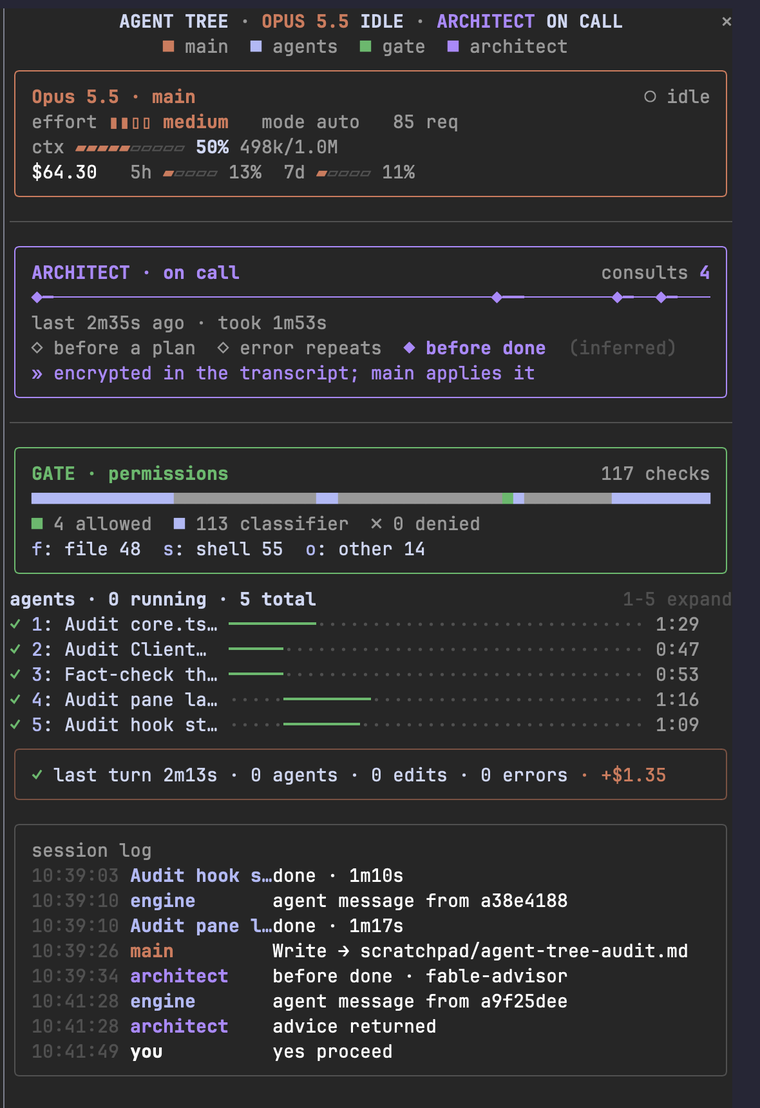
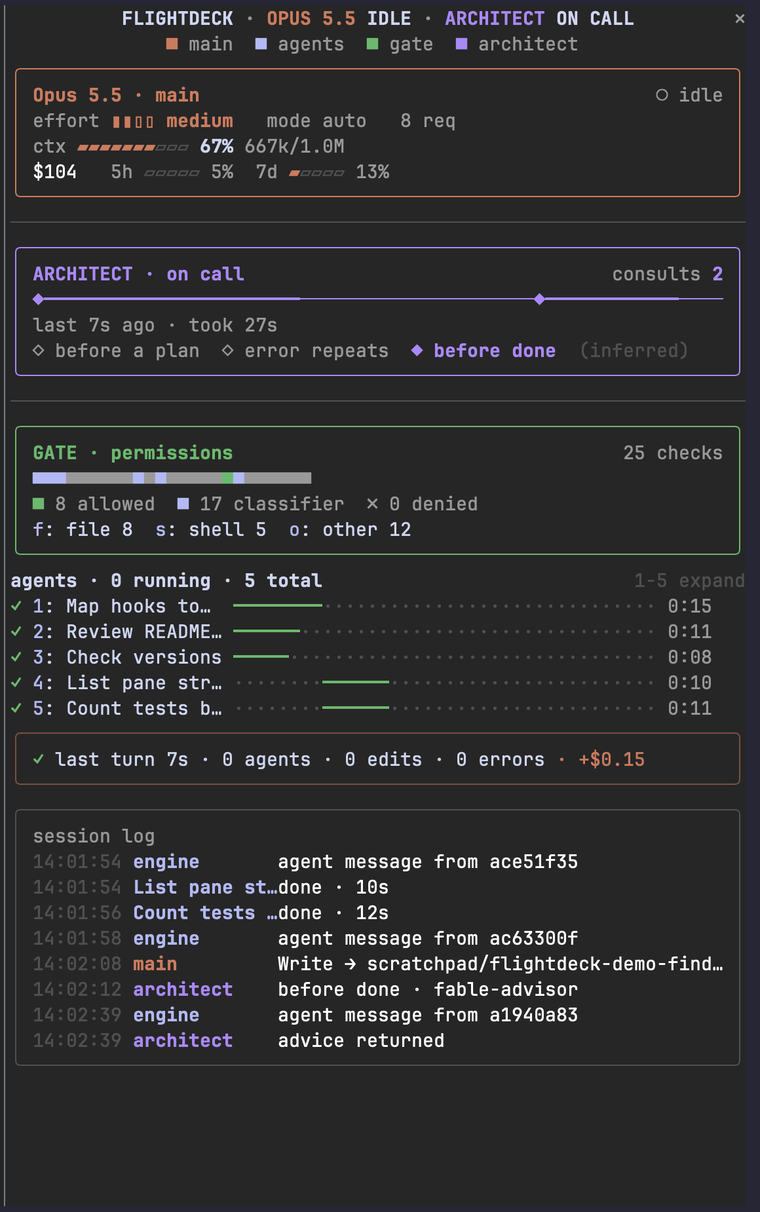
Flightdeck 0.3.1: new media, model at request start, architect hand-back advice
- README media re-captured with the Flightdeck header: demo GIF, docked
  screenshots, inline mini shot, social preview.
- Record the main model and effort when a request starts, so a long
  first request no longer shows "—".
- Read a background architect agent's advice from its hand-back message,
  which is where its answer arrives.
- Two more gate tests (24 in all); plainer wording about opening on start.

Claude-Session: https://claude.ai/code/session_01T8ke23ySnV8LQqasDmtq3X

diff --git a/tests/flightdeck.test.ts b/tests/flightdeck.test.ts
@@ -23,6 +23,7 @@ import {
   parseConfig,
   prettyModel,
   promptLine,
+  handbackOf,
   receiptOf,
   recordCheck,
   redact,
@@ -64,6 +65,29 @@ test('an ask is settled by the call that follows: cleared if it ran, deny if ref
   const s = gateSummary(g)
   expect([s.rule, s.ask, s.cleared, s.deny, s.total]).toEqual([1, 0, 1, 1, 3])
   expect(g.recent.map(c => c.verdict)).toEqual(['cleared', 'deny', 'rule'])
+})
+
+test('the gate tallies a mixed run of verdicts per family', () => {
+  let g = DEFAULT_GATE
+  g = recordCheck(g, check('r1', 'rule', 'file'))
+  g = recordCheck(g, check('a1', 'ask', 'shell'))
+  g = recordCheck(g, check('a2', 'ask', 'shell'))
+  g = recordCheck(g, check('d1', 'deny', 'other'))
+  g = settleCheck(g, 'a1', true)
+  g = settleCheck(g, 'a2', false)
+  expect(g.totals.file).toEqual({ rule: 1, ask: 0, cleared: 0, deny: 0 })
+  expect(g.totals.shell).toEqual({ rule: 0, ask: 0, cleared: 1, deny: 1 })
+  expect(g.totals.other.deny).toBe(1)
+  expect(gateSummary(g)).toEqual({ rule: 1, ask: 0, cleared: 1, deny: 2, total: 4 })
+  expect(gateSummary(DEFAULT_GATE).total).toBe(0)
+})
+
+test('a v1-shaped gate reads as empty, then records normally', () => {
+  const g = normalizeGate({ file: { allow: 3, ask: 1, deny: 0, cleared: 2 }, shell: null })
+  expect(gateSummary(g).total).toBe(0)
+  const next = recordCheck(g, check('n1', 'rule', 'file'))
+  expect(next.totals.file.rule).toBe(1)
+  expect(next.recent.length).toBe(1)
 })
 
 test('a pending ask is never trimmed out before it settles', () => {
@@ -143,6 +167,10 @@ test('layout math: lanes share one axis, the log gets 4-8 rows, the legend never
   expect(prettyModel('z-ai/glm-5.3-flash-with-a-long-name')).toBe('z-ai/glm-5.3-flash-wi…')
   expect(prettyModel('')).toBe('—')
   expect(promptLine('fix the parser')).toEqual({ who: 'you', text: 'fix the parser' })
+  const hb = '<agent-message from="a1940a83d593229d5">\n[Subagent hand-back] The text below is the final report. The report follows:\n  Add gate tests: redaction edge cases.\n  - more\n</agent-message>'
+  expect(handbackOf(hb)).toEqual({ from: 'a1940a83d593229d5', body: 'Add gate tests: redaction edge cases.' })
+  expect(handbackOf('<agent-message from="x">\nPlain report line\n</agent-message>')).toEqual({ from: 'x', body: 'Plain report line' })
+  expect(handbackOf('fix the parser')).toBe(null)
   expect(promptLine('<agent-message from="a1492260715f3be7b"> [Subagent hand-back]')).toEqual({ who: 'engine', text: 'agent message from a1492260' })
   expect(receiptOf({ ...DEFAULT_TURN, costAtStart: 5 }, { durationMs: 1, agentsSince: 0, costNow: 5, reason: 'answer' }).costDelta).toBe(null)
   expect(titleLines('Write tinyqueue test suite', 13, 16)).toEqual(['Write', 'tinyqueue test…'])
@@ -371,4 +399,19 @@ test('cards that cannot fit the pane fall back to lanes', async ($, on) => {
   expect(await wide.find({ text: /━/ })).toBeUndefined() // three cards fit in 70
   expect(await wide.find({ text: /task gamma/ })).toBeDefined()
   await wide.unmount()
+})
+
+test("a background architect's advice is read from its hand-back", async ($, on) => {
+  engine(on)
+  on('agent.spawn', () => ({ model: 'claude-fable-5-1', agentId: 'fab1' }))
+  await $.turn.start({ text: 'review it', turnId: 'H1' })
+  await $.agent.spawn(spawn('fable-advisor:fable-advisor', 'final review'))
+  await $.turn.complete({ answer: '', durationMs: 10, isAborted: false, turnId: 'H1', agentId: 'fab1', reason: 'answer' })
+  await $.turn.start({
+    text: '<agent-message from="fab1">\n[Subagent hand-back] The report follows:\n  Ship it after one more gate test.\n</agent-message>',
+    turnId: 'H2',
+  })
+  const ui = await $.ui.mount({ ...pane(64), surface: 'terminal' })
+  expect(await ui.find({ text: /» Ship it after one more gate test\./ })).toBeDefined()
+  await ui.unmount()
 })

diff --git a/hooks/register.tsx b/hooks/register.tsx
@@ -46,6 +46,7 @@ import {
   parseConfig,
   prettyModel,
   promptLine,
+  handbackOf,
   receiptOf,
   recordCheck,
   settleCheck,
@@ -284,7 +285,15 @@ export const register: Register = (on, options) => {
     const [now, cost] = await Promise.all([$.clock.now(), costNow($)])
     await update($, turn, () => ({ ...DEFAULT_TURN, startedAt: now, costAtStart: cost }))
     await update($, main, m => ({ ...normalize(DEFAULT_MAIN, m), isRunning: true }))
-    if (e.text) {
+    // A background architect's answer arrives as a hand-back that opens the next turn, not as
+    // its own turn's answer: read the advice from there.
+    const back = e.text ? handbackOf(e.text) : null
+    const a = back ? await getArchitect($) : null
+    if (back && a && a.ids.includes(back.from)) {
+      const advice = shorten(back.body.replace(/^[#>*\s-]+/, ''), 160)
+      await update($, architect, x => ({ ...normalize(DEFAULT_ARCHITECT, x), lastAdvice: advice }))
+      await say($, cfg.architectLabel.toLowerCase(), `advice: ${shorten(advice, 60)}`, 'consult')
+    } else if (e.text) {
       const p = promptLine(e.text)
       await say($, p.who, p.text)
     }
@@ -292,14 +301,15 @@ export const register: Register = (on, options) => {
   })
 
   on('turn.step', async function* ($, e, next) {
-    const result = yield* next(e)
+    // The main loop's model is known when its request starts; a long first request shouldn't read "—".
     if (!e.agentId) {
       await update($, main, m => {
         const x = normalize(DEFAULT_MAIN, m)
         return { ...x, model: e.model, effort: String(e.effort ?? x.effort), steps: x.steps + 1 }
       })
-      return result
+      return yield* next(e)
     }
+    const result = yield* next(e)
     const id = e.agentId
     const [cards, a] = await Promise.all([getCards($), getArchitect($)])
     if (cards.some(c => c.id === id)) {

diff --git a/hooks/core.ts b/hooks/core.ts
@@ -466,4 +466,21 @@ export const promptLine = (text: string): { who: string; text: string } => {
   return { who: 'engine', text: shorten(`${tag.replace(/[-_]/g, ' ')}${from ? ` from ${from.slice(0, 8)}` : ''}`, 70) }
 }
 
+/**
+ * A subagent's hand-back message: who sent it and the first line of what it said. The report
+ * follows a framing header in the message; without one, the first line after the opening tag.
+ */
+export const handbackOf = (text: string): { from: string; body: string } | null => {
+  const from = /^\s*<agent-message\s+from="([^"]+)"/.exec(text)?.[1]
+  if (!from) return null
+  const afterHeader = text.split(/The report follows:\s*\n/)[1]
+  const rest = afterHeader ?? text.replace(/^\s*<agent-message[^>]*>/, '')
+  const body =
+    rest
+      .split('\n')
+      .map(l => l.trim())
+      .find(l => l && !l.startsWith('[') && !l.startsWith('<') && !l.startsWith('</')) ?? ''
+  return body ? { from, body } : null
+}
+
 export const elapsedOf = (c: AgentCard, now: number) => (c.endedAt ?? now) - c.spawnedAt

diff --git a/README.md b/README.md
@@ -59,7 +59,7 @@ Mods are an early-access Claude Code feature and their API can change between re
 
 | Docked beside the transcript | Inline above the prompt |
 | --- | --- |
-| <img src="docs/media/docked-pane.png" alt="The docked pane: main model vitals, architect timeline, permission gate, five agents as swimlanes, last-turn receipt and session log" width="380"> | <img src="docs/media/inline-mini.png" alt="The inline mini layout: the model, context gauge and session cost; the permission gate strip and totals; the last turn's duration, agents, edits, errors and cost" width="420"><br><br>On the main screen, without fullscreen, the pane is a summary of at most 8 rows; up to 3 agents join it when the session has subagents. |
+| <img src="docs/media/docked-pane.png" alt="The docked pane: main model vitals, architect timeline, permission gate, five agents as swimlanes, last-turn receipt and session log" width="380"> | <img src="docs/media/inline-mini.png" alt="The inline mini layout while Claude works: the model, context gauge and session cost, then the permission gate strip and totals" width="420"><br><br>On the main screen, without fullscreen, the pane is a summary of at most 8 rows. Up to 3 agents and the last turn join it as the session goes. |
 
 | Panel | Shows | From |
 | --- | --- | --- |
@@ -97,7 +97,7 @@ Focus the pane with `ctrl+x tab`, then:
 - **Main-screen terminal:** inline above the prompt, as the 8-row summary.
 - **Desktop app, VS Code, mobile:** the same panels, plus the agents drawn as an SVG time axis. VS Code and mobile can't animate, so connectors and clocks are static there.
 
-With `openOnStart`, the pane asks to open when a session starts; Claude Code seats an unrequested pane from 144 columns. Colours come from your Claude Code theme, so light, dark and colour-blind themes all read.
+With `openOnStart`, the pane opens by itself when a session starts, in terminals at least 144 columns wide; below that, `/flightdeck` opens it. Colours come from your Claude Code theme, so light, dark and colour-blind themes all read.
 
 ## What it can reach
 
@@ -162,7 +162,7 @@ In `/config`, or under `pluginConfigs["flightdeck"].options` in `settings.json`:
 | [`hooks/core.ts`](hooks/core.ts) | every reducer, formatter and layout rule as pure functions, so behaviour is testable directly |
 | [`hooks/rail.tsx`](hooks/rail.tsx), [`hooks/elapsed.tsx`](hooks/elapsed.tsx) | surface modules: animated connectors and live clocks that redraw only themselves, on the surface's own frame clock |
 | [`types/index.d.ts`](types/index.d.ts) | the state contract |
-| [`tests/`](tests) | 21 tests: pure behaviour, plus drawings mounted on every surface at 40–120 columns |
+| [`tests/`](tests) | 24 tests: pure behaviour, plus drawings mounted on every surface at 40–120 columns |
 
 State lives in `$.state` atoms. Every read is merged over defaults and a `schemaVersion` gates migrations, so state saved by an older version still reads after an update. New to mods? Start with [Claude Code mods](https://claude.com/blog/claude-code-mods) and [Getting started with Claude Code mods](https://claude.dev/blog/getting-started-with-claude-code-mods/).
 

diff --git a/CHANGELOG.md b/CHANGELOG.md
@@ -1,5 +1,12 @@
 # Changelog
 
+## 0.3.1
+
+- The main box shows the model and effort as soon as a request starts, not after the first one finishes.
+- Advice from a background architect agent (such as `fable-advisor`) now reaches the architect's `»` line; it arrives as a hand-back message, not as the agent's own answer.
+- New README media showing the Flightdeck header; plainer wording about opening on start.
+- More gate tests (24 in all).
+
 ## 0.3.0
 
 First public release.
